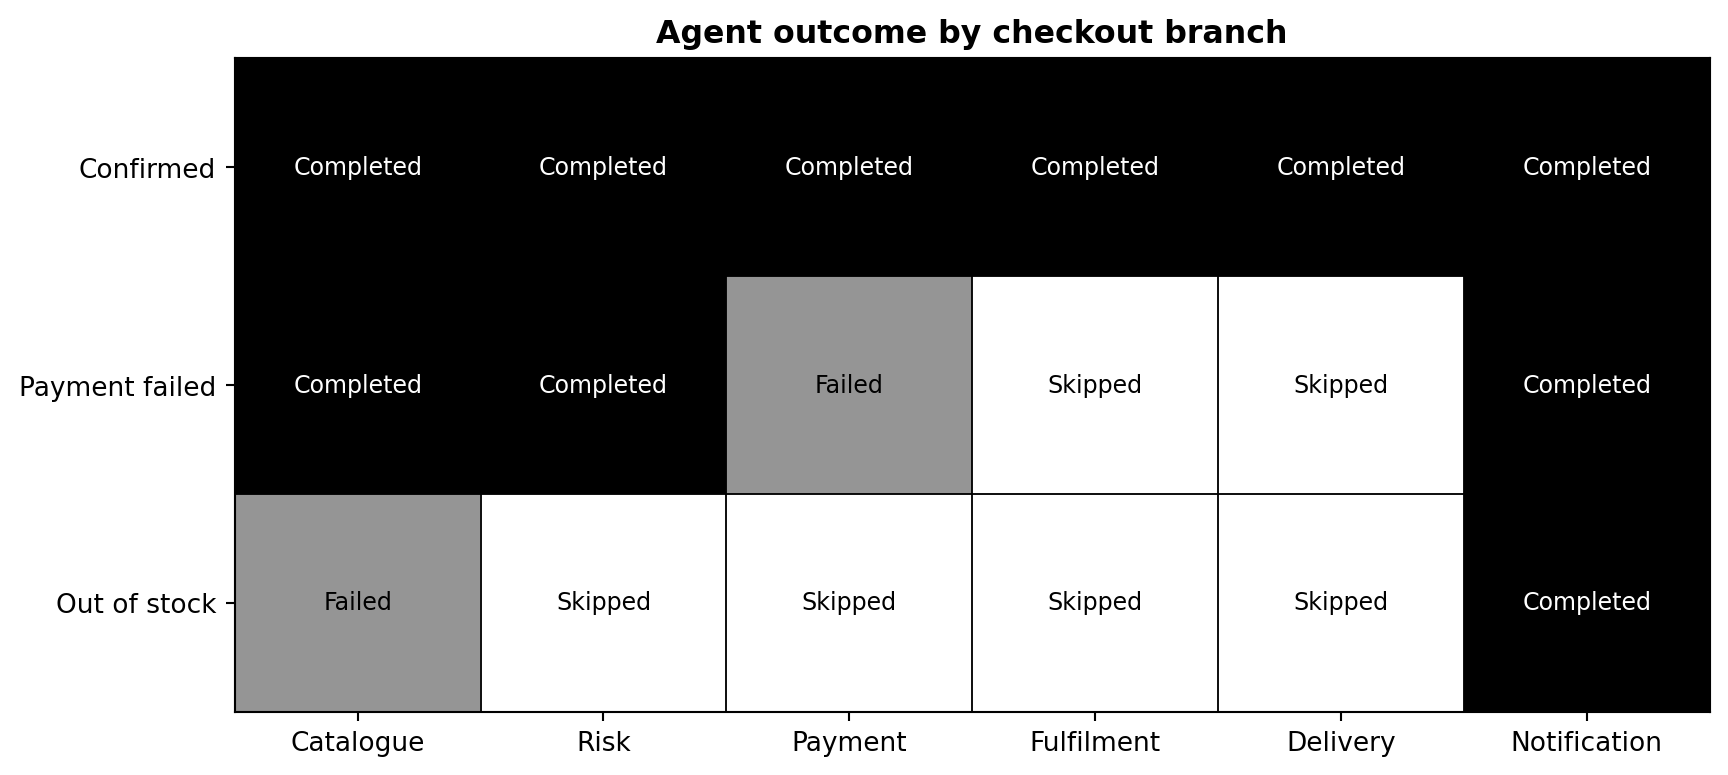
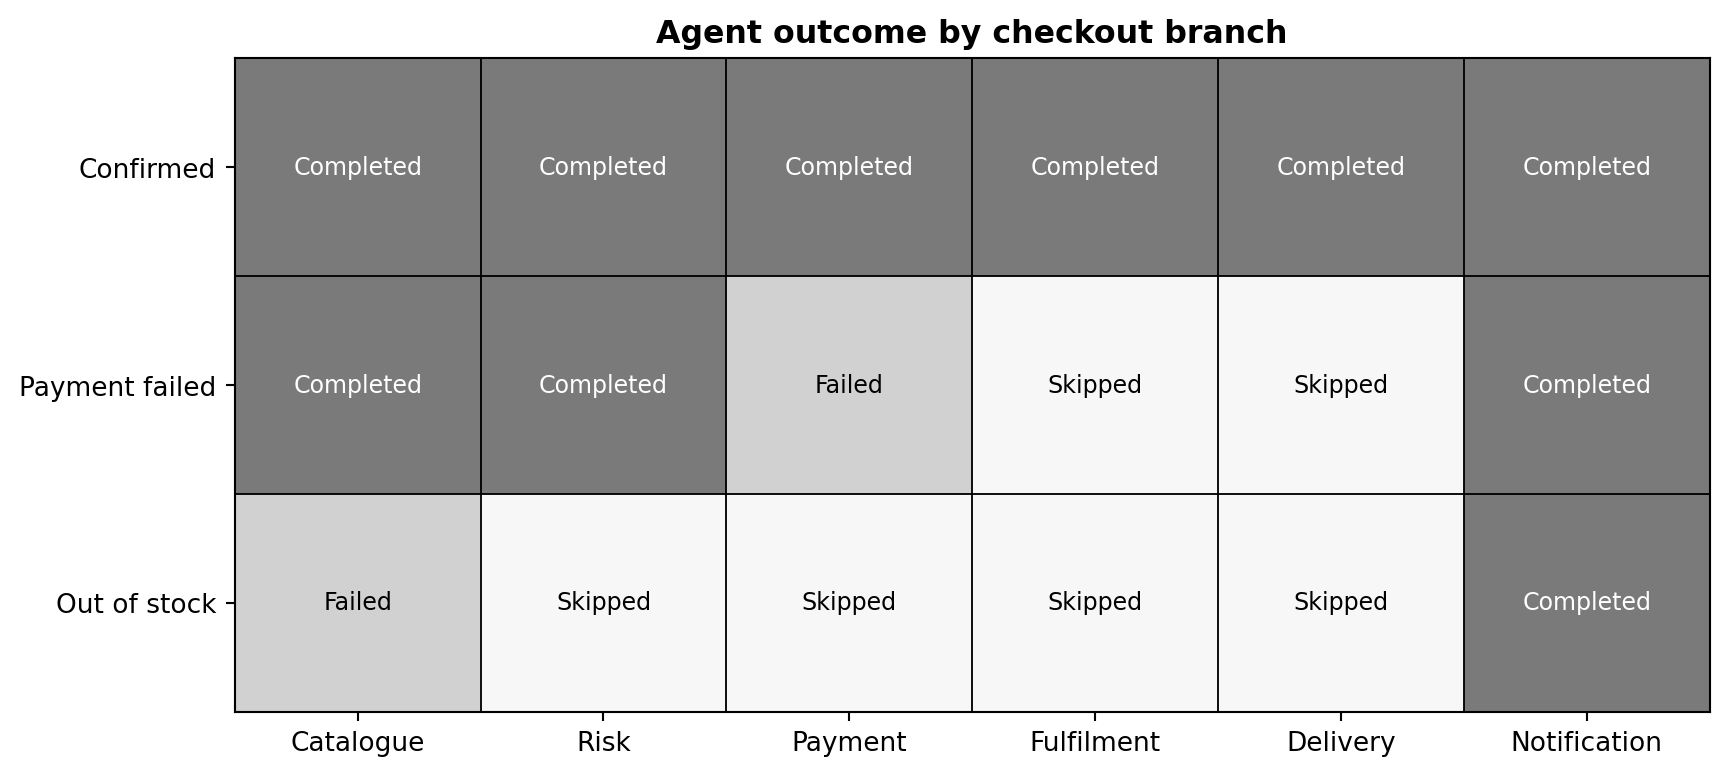
Polish lifecycle evidence and documentation

diff --git a/src/lib/order-lifecycle.ts b/src/lib/order-lifecycle.ts
@@ -31,13 +31,15 @@ const completedThrough: Record<Exclude<DeliveryStatus, "NOT_CREATED">, number> =
   DELIVERED: 7,
 };
 
-function timestamp(createdAt: string, offsetMinutes: number) {
-  return new Date(new Date(createdAt).getTime() + offsetMinutes * 60_000).toISOString();
+function timestamp(createdAt: string, offsetMinutes: number, observedAt: string) {
+  const planned = new Date(createdAt).getTime() + offsetMinutes * 60_000;
+  return new Date(Math.min(planned, new Date(observedAt).getTime())).toISOString();
 }
 
 export function successfulMilestones(
   createdAt: string,
   deliveryStatus: Exclude<DeliveryStatus, "NOT_CREATED">,
+  observedAt = new Date().toISOString(),
 ): OrderMilestone[] {
   const currentIndex = completedThrough[deliveryStatus];
   return templates.map((template, index) => ({
@@ -50,13 +52,14 @@ export function successfulMilestones(
           ? "CURRENT"
           : "UPCOMING",
     message: template.message,
-    occurredAt: index <= currentIndex ? timestamp(createdAt, template.offsetMinutes) : null,
+    occurredAt: index <= currentIndex ? timestamp(createdAt, template.offsetMinutes, observedAt) : null,
   }));
 }
 
 export function stoppedMilestones(
   createdAt: string,
   status: Extract<OrderResponse["status"], "PAYMENT_FAILED" | "OUT_OF_STOCK">,
+  observedAt = new Date().toISOString(),
 ): OrderMilestone[] {
   const stoppedIndex = status === "OUT_OF_STOCK" ? 1 : 2;
   return templates.map((template, index) => {
@@ -66,7 +69,7 @@ export function stoppedMilestones(
         label: template.label,
         state: "COMPLETED",
         message: template.message,
-        occurredAt: timestamp(createdAt, template.offsetMinutes),
+        occurredAt: timestamp(createdAt, template.offsetMinutes, observedAt),
       };
     }
 
@@ -79,7 +82,7 @@ export function stoppedMilestones(
       label: template.label,
       state: "STOPPED",
       message: index === stoppedIndex ? failureMessage : "This stage was not started.",
-      occurredAt: index === stoppedIndex ? timestamp(createdAt, template.offsetMinutes) : null,
+      occurredAt: index === stoppedIndex ? timestamp(createdAt, template.offsetMinutes, observedAt) : null,
     };
   });
 }

diff --git a/src/lib/order-orchestrator.ts b/src/lib/order-orchestrator.ts
@@ -61,7 +61,7 @@ export function orchestrateOrder(request: OrderRequest): OrderResponse {
       message: "The order was stopped before payment because an item is out of stock.",
       inventoryDisposition: "REJECTED",
       inventory: inventoryLines(request.items, "REJECTED"),
-      milestones: stoppedMilestones(createdAt, "OUT_OF_STOCK"),
+      milestones: stoppedMilestones(createdAt, "OUT_OF_STOCK", createdAt),
       trace,
     };
   }
@@ -114,7 +114,7 @@ export function orchestrateOrder(request: OrderRequest): OrderResponse {
       message: "Payment could not be authorised. No money was charged.",
       inventoryDisposition: "RELEASED",
       inventory: inventoryLines(request.items, "RELEASED"),
-      milestones: stoppedMilestones(createdAt, "PAYMENT_FAILED"),
+      milestones: stoppedMilestones(createdAt, "PAYMENT_FAILED", createdAt),
       trace,
     };
   }
@@ -157,7 +157,7 @@ export function orchestrateOrder(request: OrderRequest): OrderResponse {
     message: "Your order is confirmed and is being prepared for dispatch.",
     inventoryDisposition: "COMMITTED",
     inventory: inventoryLines(request.items, "COMMITTED"),
-    milestones: successfulMilestones(createdAt, "PROCESSING"),
+    milestones: successfulMilestones(createdAt, "PROCESSING", createdAt),
     trace,
   };
 }

diff --git a/src/lib/order-orchestrator.test.ts b/src/lib/order-orchestrator.test.ts
@@ -31,6 +31,7 @@ describe("Vercel order adapter", () => {
     expect(result.inventoryDisposition).toBe("COMMITTED");
     expect(result.inventory[0]).toMatchObject({ availableBefore: 1, reserved: 1, availableAfter: 0 });
     expect(result.milestones.find((stage) => stage.code === "PICKING")?.state).toBe("CURRENT");
+    expect(result.milestones.filter((stage) => stage.occurredAt).every((stage) => stage.occurredAt! <= result.createdAt)).toBe(true);
     expect(result.items[0].slug).toBe("anvi-aarohi-floral-kurta-set");
   });
 

diff --git a/scripts/build_project_report.py b/scripts/build_project_report.py
@@ -98,7 +98,7 @@ def build_report() -> Path:
         {
             "title": "Customer delivery lifecycle experiment",
             "paragraphs": [
-                "A confirmed order begins a separate customer lifecycle. The same eight stage contract is returned by Java and the hosted adapter. Public examples advance that contract to shipped, out for delivery and delivered so the reviewer can inspect more than the first successful checkout state.",
+                "A confirmed order begins a separate customer lifecycle. The same eight stage contract is returned by Java and the hosted adapter. Public examples advance that contract to shipped, out for delivery and delivered so the implementation demonstrates more than the first successful checkout state.",
             ],
             "figure": FIGURES / "06_delivery_lifecycle.png",
             "caption": "Figure 3. Eight ordered milestones from order receipt through delivery.",
@@ -157,7 +157,7 @@ def build_report() -> Path:
             "explanation": [
                 ["Test question", "Does the build preserve the declared catalogue and generated page scope?"],
                 ["Observed result", "The verified build contains 50 products, five categories and 62 generated or dynamic pages."],
-                ["Interpretation", "The scope exercises reusable product and route behaviour while remaining understandable as a student project."],
+                ["Interpretation", "The scope exercises reusable product and route behaviour while keeping every generated page connected to the same catalogue rules."],
             ],
         },
         {
@@ -168,7 +168,7 @@ def build_report() -> Path:
             "figure": SCREENSHOTS / "04_checkout.jpg",
             "caption": "Figure 8. Checkout evidence with address, payment method and reproducible outcome controls.",
             "explanation": [
-                ["Test question", "Can a reviewer reproduce each order branch without entering real payment information?"],
+                ["Test question", "Can each order branch be reproduced without entering real payment information?"],
                 ["Observed result", "The form collects only demonstration address data, labels the payment as simulated and provides successful, declined and unavailable outcomes."],
                 ["Interpretation", "The control is intentionally visible because it makes success and safe failure evidence repeatable in a public project."],
             ],
@@ -192,7 +192,7 @@ def build_report() -> Path:
             "paragraphs": [
                 "All products, ratings, payments, customers, inventory quantities, orders and courier events are synthetic. Browser storage is personal to one visitor and is not shared warehouse inventory. The public Vercel deployment may use hosted TypeScript adapters rather than the local Java and Python services.",
                 "The project does not contain production authentication, database transactions, payment settlement, fraud detection, reservation expiry, courier webhooks, returns processing or operational monitoring. The assistant is limited to website support and must not be interpreted as a general purpose shopping or financial adviser.",
-                "These boundaries do not weaken the project result. They identify exactly what was tested: a coherent student scale demonstration of contracts, state transitions, orchestration and customer explanation.",
+                "These boundaries identify exactly what was tested: a coherent demonstration of contracts, state transitions, orchestration and customer explanation.",
                 "The analytical measures also require careful interpretation. Twelve rows are sufficient to verify formulas and reporting structure, but they are not evidence of real market demand, city performance or commercial revenue. The values are reported only as outcomes of the declared synthetic fixture.",
                 "Security testing is limited to server only handling of the optional model key, validated order input and the absence of real payment credentials. Production review would also require dependency scanning, rate limiting, access control, audit logs, privacy assessment and incident response procedures.",
             ],
@@ -200,9 +200,9 @@ def build_report() -> Path:
         {
             "title": "Reproducibility and future work",
             "paragraphs": [
-                "The repository contains the Next.js application, Java and Python services, Docker files, API contracts, synthetic source data, KPI output, 23 automated tests, browser captures, seven generated experiment figures and this report. A reviewer can run each language suite independently or start the combined local stack with Docker Compose.",
+                "The repository contains the Next.js application, Java and Python services, Docker files, API contracts, synthetic source data, KPI output, 23 automated tests, browser captures, seven generated experiment figures and this report. Each language suite can run independently, or the combined local stack can start with Docker Compose.",
                 "The next stage would add a shared relational database, authenticated accounts, idempotent order creation, expiring reservations, payment webhooks, a courier event simulator and end to end service tracing. Those features should be added only with new contract and failure tests, because additional components would otherwise reintroduce the disconnected state problem this project addresses.",
-                "Reproduction begins with the automated suites because they establish the business contract before a visual review. The production Next.js build then verifies the generated routes and TypeScript types. Java and Python can be run separately, which allows a reviewer to inspect the order and recommendation services without requiring the optional conversational model.",
+                "Reproduction begins with the automated suites because they establish the business contract before a visual review. The production Next.js build then verifies the generated routes and TypeScript types. Java and Python can run separately, so the order and recommendation services do not require the optional conversational model.",
                 "Generated reports and figures are treated as outputs rather than hidden manual calculations. The KPI JSON is read directly by the report builder, and the figure scripts declare the test counts and scenario states they visualise. This keeps the written result consistent with the repository evidence.",
             ],
         },
@@ -210,8 +210,8 @@ def build_report() -> Path:
             "title": "Conclusion",
             "paragraphs": [
                 "Sunshine demonstrates a connected retail order rather than only an ecommerce interface. The strongest result is the agreement between the customer milestone, inventory snapshot, internal agent trace and automated tests for all three checkout branches.",
-                "The project also connects Java orchestration, Python recommendations and analytics, Next.js customer interaction and bounded conversational support without presenting synthetic behavior as production commerce. This combination makes the implementation explainable, reproducible and appropriate for a final year student portfolio.",
-                "The implementation shows several distinct skills through one coherent problem: frontend state management, typed API design, Java responsibility boundaries, Python ranking and analysis, language model guardrails, failure testing and technical communication. Each skill is supported by a file, test, figure or customer flow that a reviewer can inspect.",
+                "The project also connects Java orchestration, Python recommendations and analytics, Next.js customer interaction and bounded conversational support without presenting synthetic behavior as production commerce. This combination keeps the implementation explainable and reproducible.",
+                "The implementation connects frontend state management, typed API design, Java responsibility boundaries, Python ranking and analysis, language model guardrails, failure testing and technical communication through one coherent problem. Every result is supported by a file, test, figure or customer flow.",
                 "Most importantly, the project treats failed payment and unavailable stock as first class outcomes. Correct recovery is part of the product, not an error message added after the successful path. That design decision is what turns the demonstration into a complete order lifecycle study.",
                 "For the confirmed branch, the evidence can be followed from the checkout request to the final screen. The requested quantity is available, a reservation is created, risk rules pass, payment is approved, the quantity is committed, picking becomes current and the remaining delivery stages are scheduled. The same order is saved for profile lookup and conversational support.",
                 "For the declined branch, the evidence follows a different path. The quantity is initially reserved, payment fails, the held units return to availability and neither fulfilment nor delivery is created. The cart remains available for another attempt. For the unavailable branch, reservation fails before risk or payment, which proves that the project avoids charging for a quantity it cannot supply.",

diff --git a/backend-java/src/main/java/com/sunshine/orders/agent/DeliveryAgent.java b/backend-java/src/main/java/com/sunshine/orders/agent/DeliveryAgent.java
@@ -10,7 +10,6 @@ import com.sunshine.orders.model.OrderModels.StepStatus;
 import org.springframework.stereotype.Component;
 
 import java.time.Instant;
-import java.time.temporal.ChronoUnit;
 import java.util.ArrayList;
 import java.util.List;
 
@@ -34,9 +33,7 @@ public class DeliveryAgent {
             MilestoneState state = index < 3 ? MilestoneState.COMPLETED
                     : index == 3 ? MilestoneState.CURRENT
                     : MilestoneState.UPCOMING;
-            Instant occurredAt = index <= 3
-                    ? createdAt.plus(template.offsetMinutes(), ChronoUnit.MINUTES)
-                    : null;
+            Instant occurredAt = index <= 3 ? createdAt : null;
             milestones.add(toMilestone(template, state, template.message(), occurredAt));
         }
         AgentStep step = new AgentStep(
@@ -61,16 +58,14 @@ public class DeliveryAgent {
                         template,
                         MilestoneState.COMPLETED,
                         template.message(),
-                        createdAt.plus(template.offsetMinutes(), ChronoUnit.MINUTES)
+                        createdAt
                 ));
             } else {
                 milestones.add(toMilestone(
                         template,
                         MilestoneState.STOPPED,
                         index == stoppedIndex ? failureMessage : "This stage was not started.",
-                        index == stoppedIndex
-                                ? createdAt.plus(template.offsetMinutes(), ChronoUnit.MINUTES)
-                                : null
+                        index == stoppedIndex ? createdAt : null
                 ));
             }
         }

diff --git a/scripts/create_report_figures.py b/scripts/create_report_figures.py
@@ -5,6 +5,7 @@ from pathlib import Path
 
 import matplotlib.pyplot as plt
 import numpy as np
+from matplotlib.colors import ListedColormap
 
 ROOT = Path(__file__).resolve().parents[1]
 OUTPUT = ROOT / "reports" / "figures"
@@ -37,7 +38,7 @@ def workflow_matrix() -> None:
     ])
     labels = {0: "Skipped", 1: "Failed", 2: "Completed"}
     figure, axis = plt.subplots(figsize=(9.2, 4.2))
-    axis.imshow(values, cmap="Greys", vmin=0, vmax=2, aspect="auto")
+    axis.imshow(values, cmap=ListedColormap(["#f7f7f7", "#d1d1d1", "#7a7a7a"]), vmin=0, vmax=2, aspect="auto")
     axis.set_xticks(range(len(agents)), agents)
     axis.set_yticks(range(len(scenarios)), scenarios)
     axis.set_title("Agent outcome by checkout branch", fontweight="bold")

diff --git a/backend-java/src/test/java/com/sunshine/orders/service/OrderOrchestratorTest.java b/backend-java/src/test/java/com/sunshine/orders/service/OrderOrchestratorTest.java
@@ -52,6 +52,9 @@ class OrderOrchestratorTest {
         assertThat(result.milestones())
                 .filteredOn(stage -> stage.code() == MilestoneCode.PICKING)
                 .allMatch(stage -> stage.state() == MilestoneState.CURRENT);
+        assertThat(result.milestones())
+                .filteredOn(stage -> stage.occurredAt() != null)
+                .allMatch(stage -> !stage.occurredAt().isAfter(result.createdAt()));
     }
 
     @Test

diff --git a/README.md b/README.md
@@ -8,7 +8,11 @@ Author: Divya Rachala
 
 Live application: [Sunshine](https://sunshine-agentic-retail.vercel.app)
 
-![Sunshine storefront](docs/screenshots/01_storefront.jpg)
+<p align="center">
+  <img src="docs/screenshots/01_storefront_overview.jpg" width="880" alt="Sunshine storefront with product catalogue, search and category navigation" />
+</p>
+
+<p align="center"><em>Figure 1. Sunshine storefront and catalogue entry point.</em></p>
 
 ## 1. Project overview
 
@@ -16,7 +20,7 @@ Sunshine provides a complete demonstration shopping journey for customers in Ind
 
 ### 1.1 Problem and purpose
 
-Many student commerce projects stop after product listing, cart and checkout screens. The customer support conversation, stock decision, payment result, delivery update and order history often use separate sample data, so the full journey cannot be followed or verified.
+Many commerce demonstrations stop after product listing, cart and checkout screens. The customer support conversation, stock decision, payment result, delivery update and order history often use separate sample data, so the full journey cannot be followed or verified.
 
 The root cause is disconnected application state. A recommendation may not match the real catalogue, a support response may invent an order update, and a failed checkout may not explain which step stopped the order.
 
@@ -68,7 +72,11 @@ Every visitor can inspect public order examples for the following states.
 
 Orders placed by a visitor are stored in that browser and appear before the public examples.
 
-![Profile and recent orders](docs/screenshots/07_profile_and_recent_orders.jpg)
+<p align="center">
+  <img src="docs/screenshots/07_profile_orders_overview.jpg" width="820" alt="Sunshine profile menu and recent order history" />
+</p>
+
+<p align="center"><em>Figure 2. Profile navigation and saved order states.</em></p>
 
 ### 2.3 Order journey and inventory behaviour
 
@@ -82,7 +90,11 @@ The catalogue contains normal, low stock and unavailable products. Checkout perf
 
 The order page shows all eight customer milestones and a clear before, held and after stock summary for each line item. A confirmed purchase reduces inventory in the current browser. When the final unit is purchased, the product becomes unavailable on the next visit.
 
-![Unavailable product](docs/screenshots/08_unavailable_product.jpg)
+<p align="center">
+  <img src="reports/figures/06_delivery_lifecycle.png" width="820" alt="Eight stage Sunshine order delivery lifecycle" />
+</p>
+
+<p align="center"><em>Figure 3. The delivery contract used by successful orders.</em></p>
 
 ## 3. Application architecture
 
@@ -125,6 +137,18 @@ The order service supports three demonstration results.
 2. A declined payment releases the reserved quantity, creates no shipment and keeps the cart available.
 3. An unavailable item rejects the reservation, stops before payment and records the failed attempt.
 
+### 5.1 Responsibility handoff
+
+| Order phase | Responsible component | Inventory effect | Customer evidence |
+| --- | --- | --- | --- |
+| Request accepted | Order Orchestrator | No quantity change | Order received |
+| Availability check | Catalogue Agent | Available units become reserved | Items reserved |
+| Rule review | Risk Agent | Reservation remains held | Processing continues or stops |
+| Payment | Payment Agent | Reservation is committed or released | Payment confirmed or declined |
+| Preparation | Fulfilment Agent | Committed stock belongs to the order | Picking and packed |
+| Transport | Delivery Agent | No further stock change | Shipped, out for delivery and delivered |
+| Final update | Notification Agent | Final disposition is recorded | Order history and assistant lookup |
+
 ## 6. Product recommendations
 
 The FastAPI service ranks related products from the same category. The scoring method combines product rating and relative price distance.
@@ -132,8 +156,6 @@ The FastAPI service ranks related products from the same category. The scoring m
 ```text
 score = rating multiplied by 2, then reduced by the absolute price difference divided by the reference price
 ```
-
-![Product recommendations](docs/screenshots/02_product_and_recommendations.jpg)
 
 ## 7. Retail analytics
 

diff --git a/docs/ARCHITECTURE.md b/docs/ARCHITECTURE.md
@@ -2,7 +2,7 @@
 
 ## 1. Purpose
 
-I designed Sunshine as a student scale retail system with clear boundaries between the customer interface, conversational support, order processing, recommendations and analytics.
+I designed Sunshine as a focused retail system with clear boundaries between the customer interface, conversational support, order processing, recommendations and analytics.
 
 The system keeps customer actions simple. Technical workflow details remain inside the services and documentation rather than appearing in normal shopping navigation.
 
